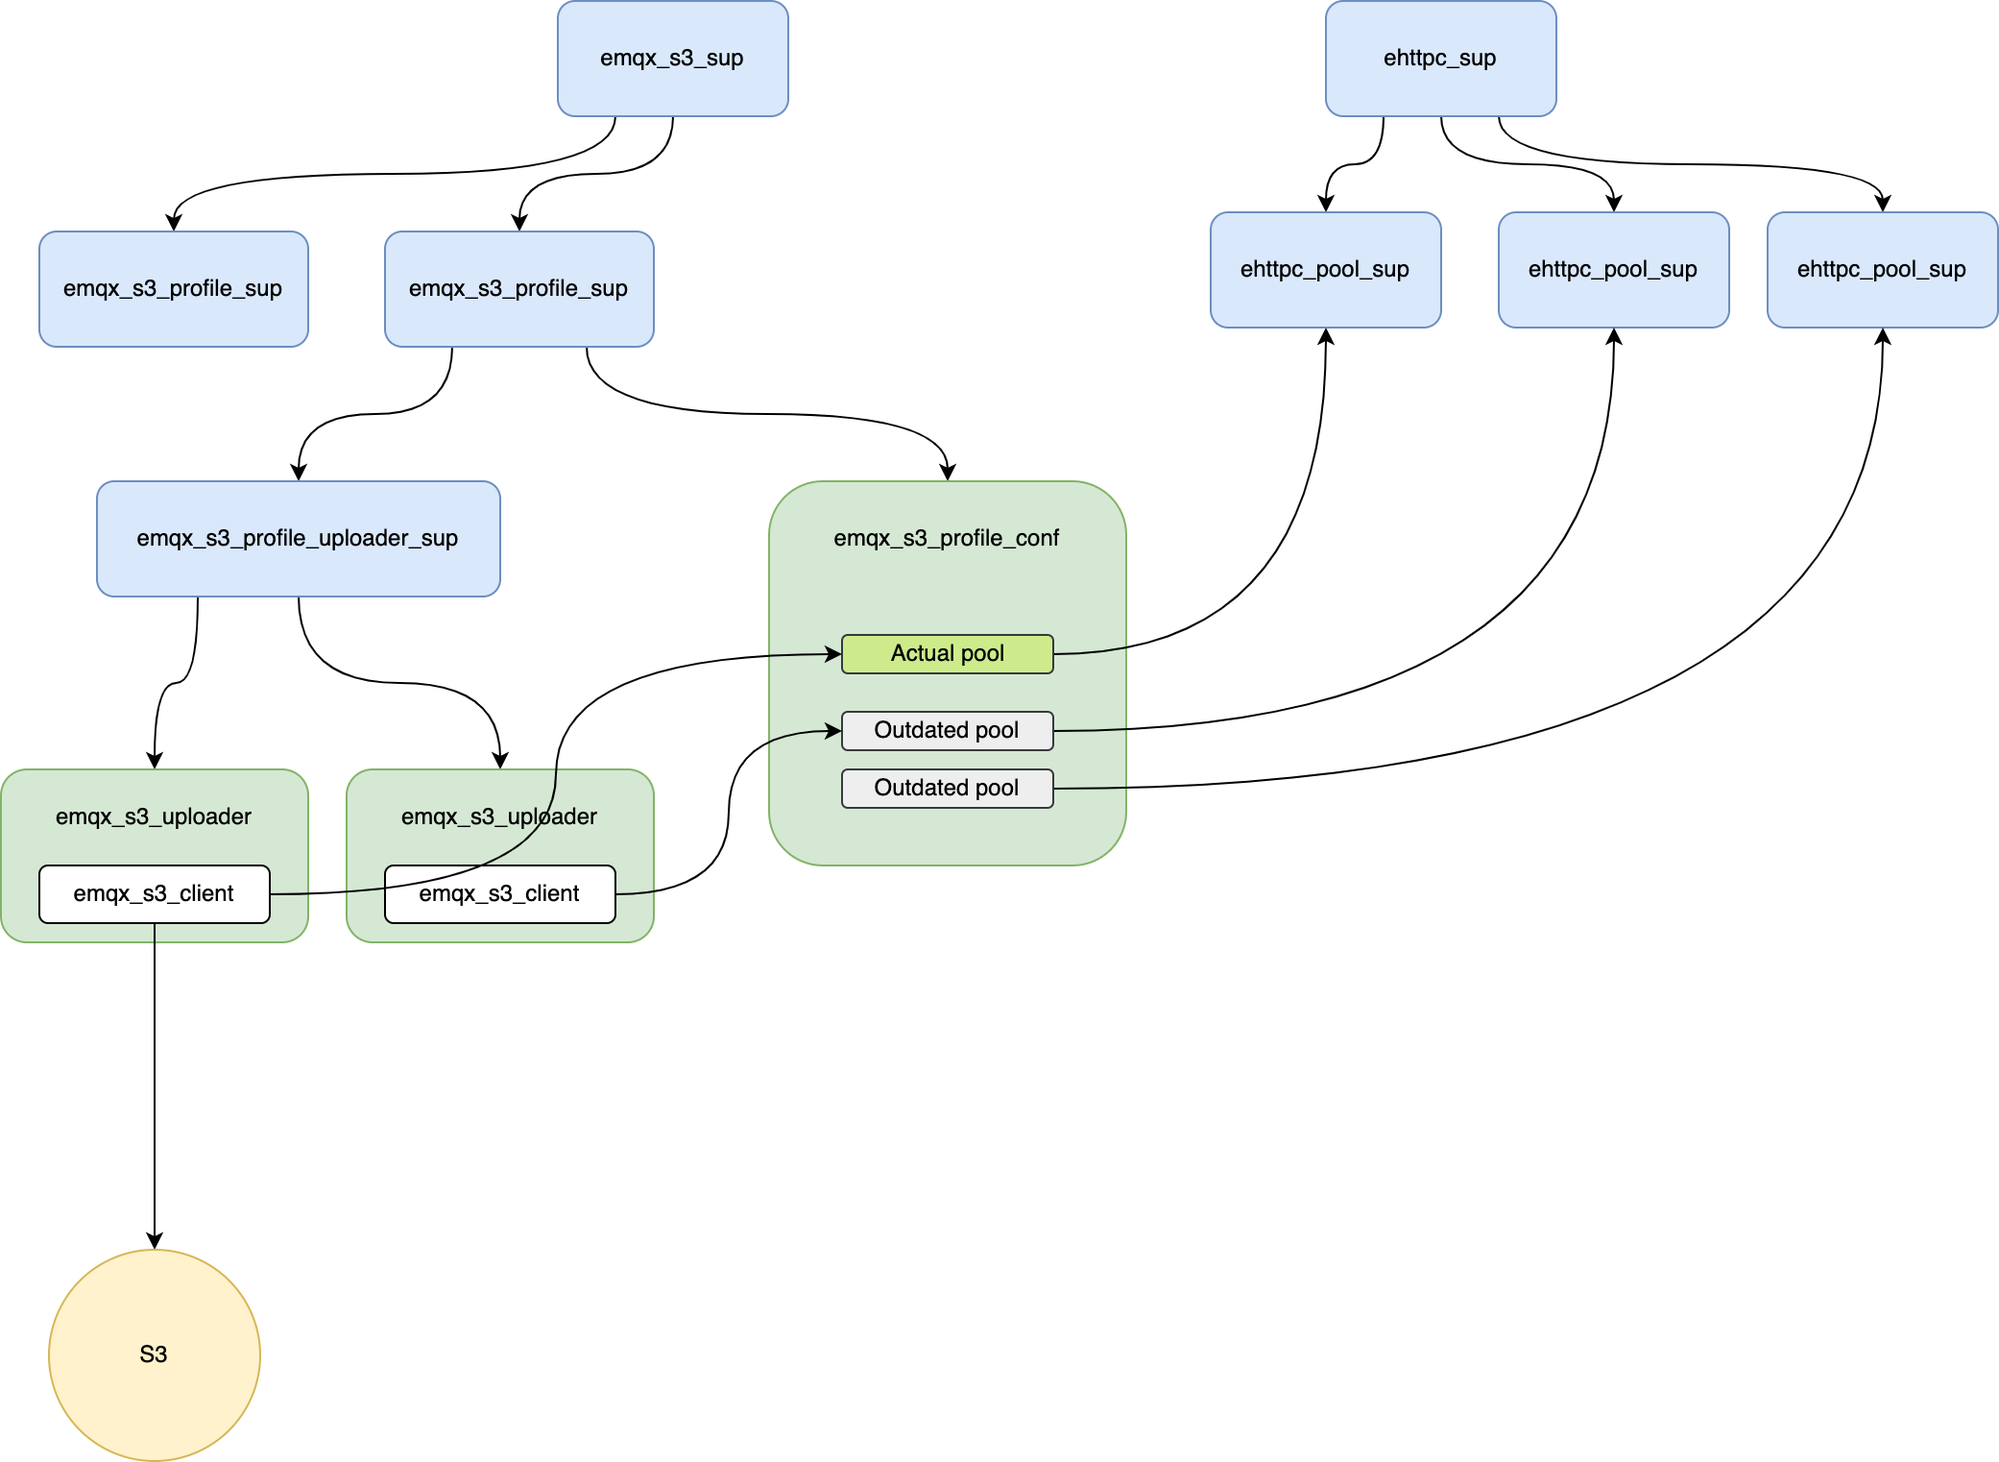
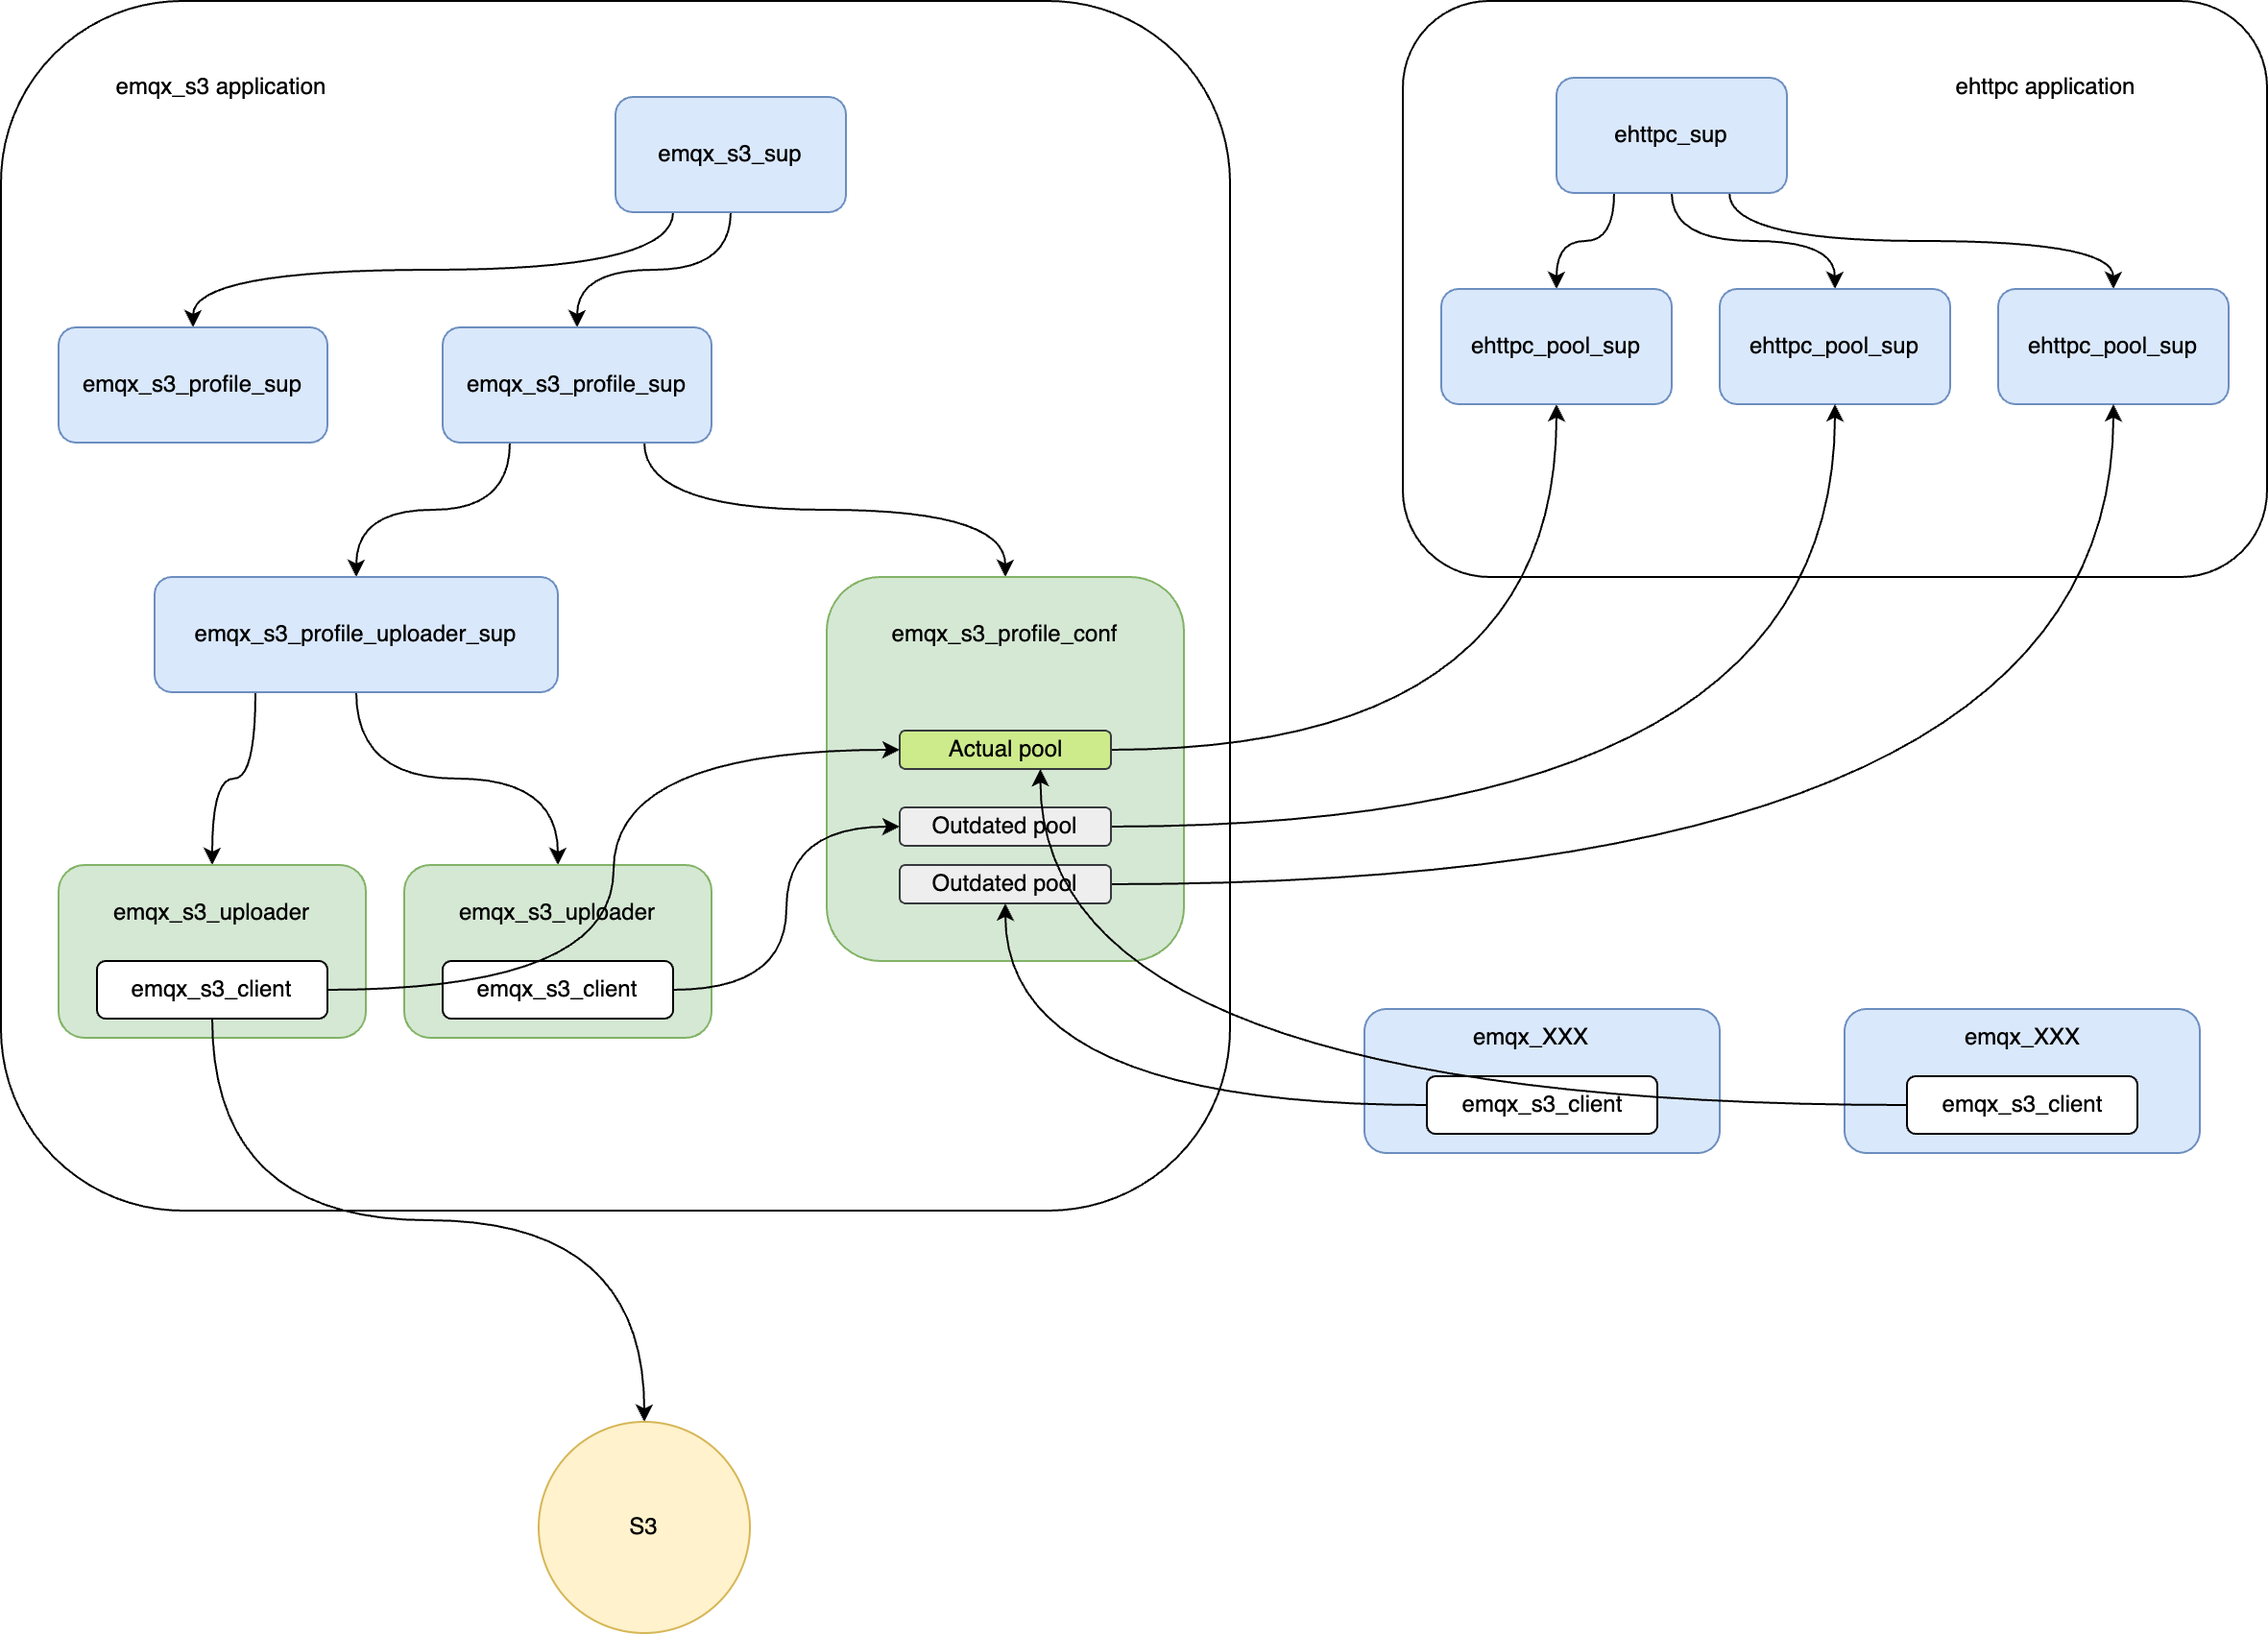
docs(s3): update readme

diff --git a/apps/emqx_s3/README.md b/apps/emqx_s3/README.md
@@ -112,6 +112,8 @@ do_upload_data(Key, Data) ->
 
 When an uploader process is started, it checkouts the actual S3 configuration for the profile from the `emqx_s3_profile_conf` server. It uses the obtained configuration and connection pool to upload data to S3 till the termination, even if the configuration is updated.
 
+Other processes (`emqx_XXX`) can also checkout the actual S3 configuration for the profile from the `emqx_s3_profile_conf` server.
+
 `emqx_s3_profile_conf`:
 * Keeps actual S3 configuration for the profile and creates a connection pool for the actual configuration.
 * Creates a new connection pool when the configuration is updated.
